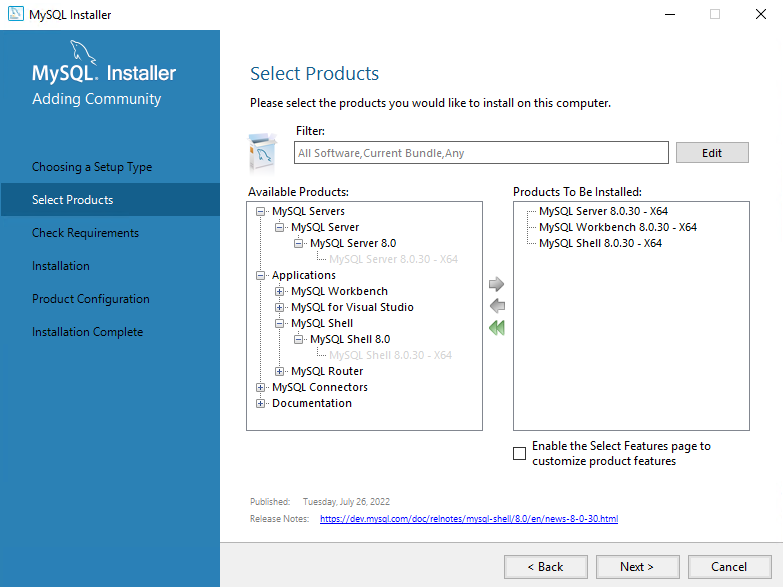
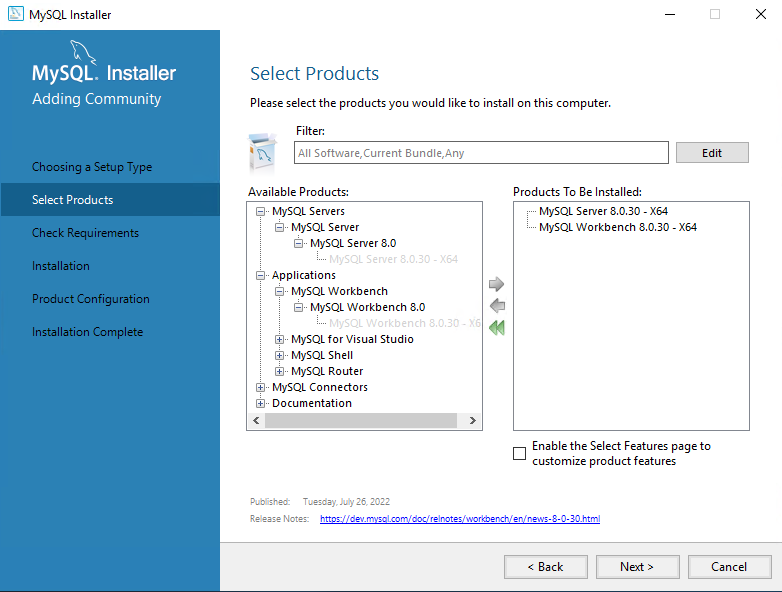
MySQL Data In Lab review 1

diff --git a/Azure Database for MySQL Single Server/06 Set Data-In replication for MySQL from on premise into Azure Database for MySQL/readme.md b/Azure Database for MySQL Single Server/06 Set Data-In replication for MySQL from on premise into Azure Database for MySQL/readme.md
@@ -46,7 +46,6 @@ In this exercise, MySQL will be installed in an Azure VM to be used as primary s
    - **Security type**: Standard
    - **Image**: Windows Server 2019 Datacenter
    - **Size**: Any tier with at least 2vCores and 8GB memory is ok
-   - **Authentication type**: Password
    - **Username**: vmadmin
    - **Password**: Set a strong password
    - **Public inbound ports**: Allow selected ports
@@ -67,13 +66,13 @@ In this exercise, MySQL will be installed in an Azure VM to be used as primary s
 
 1. Identify private and public IP addresses for the VM
 
-   Take note of the private and public IP addresses of the VM as we will be using them at later section.
+   Take note of the public IP addresses of the VM as we will be using them at later section.
 
    ![Image0003](Media/image0003.png)
 
 1. Connect to the *MySQLVM* virtual machine
 
-   Open Remote Desktop Application and connect to the *MySQLVM* virtual machine using using the Public IP Address of the VM and the *vmadmni* user
+   Open Remote Desktop Application and connect to the *MySQLVM* virtual machine using using the Public IP Address of the VM and the *vmadmin* user
 
    ![Image0004](Media/image0004.png)
 
@@ -92,25 +91,24 @@ In this exercise, MySQL will be installed in an Azure VM to be used as primary s
 
    >This installation is a simple configuration for lab purposes so not all the security best practices are follows in interest of time and becuase it is out of the scope of this lab.
 
-   In the MySQL VM, open Internet Explorer and 
-   Method 1: Disable software with invalid signature to run in Internet Explorer
+   In the MySQL VM, open Internet Explorer and disable software with invalid signature to run in Internet Explorer
+   - Open Internet Explorer browser from Desktop.
+   - From the menu bar select Tools Select Internet Options.
+   - In the Internet Options window, select Advanced tab.
+   - Scroll down and un-check the Allow software to run or install even if the signature is invalid
+   - Click OK to save the settings. Then close the Internet Options window.
 
- a)      Open Internet Explorer browser from Desktop.
-
-b)      From the menu bar select Tools Select Internet Options.
-
-c)      In the Internet Options window, select Advanced tab.
-
-d)      Scroll down and un-check the Allow software to run or install even if the signature is invalid
-
-e)      Click OK to save the settings. Then close the Internet Options window.
-
-
-   go to https://dev.mysql.com/downloads/windows/installer/8.0.html
+   Restart Internet Explorer and go to https://dev.mysql.com/downloads/windows/installer/8.0.html
    
    ![Image0007](Media/image0007.png)
 
+   Select the mysql-installer-community msi option.
+
    ![Image0008](Media/image0008.png)
+
+![Image0040](Media/image0040.png)
+
+![Image0041](Media/image0041.png)
 
    Start the installer, 
 
@@ -119,23 +117,26 @@ e)      Click OK to save the settings. Then close the Internet Options window.
    Select:
    - MySQL Server
    - MySQL Workbench
-   - MySL Shell
 
    and click **Next**
 
    ![Image0009](Media/image0009.png)
 
-   follow with the installation. During server configuration set a strong password for the *root* user and create a ew user *admin* with the *DB ADmin* role
+   follow with the installation. During server configuration set a strong password for the *root* user and create a new user *admin* with the *DB ADmin* role
 
    ![Image0010](Media/image0010.png)
 
    Add the MySQL bin folder to Windows PATH using Powershell as an Administrator
 
+   ```bash
+   [Environment]::SetEnvironmentVariable("PATH", $Env:PATH + ";C:\Program Files\MySQL\MySQL Server 8.0\bin", [EnvironmentVariableTarget]::Machine)
+   ```
+
    ![Image0011](Media/image0011.png)
       
 1. Create the *sakila* sample database
 
-   Download https://downloads.mysql.com/docs/sakila-db.zip and extract the content in *C:\\\temp* 
+   Using Internet Explorer, download https://downloads.mysql.com/docs/sakila-db.zip and extract the content in *C:\\\temp* 
 
    Open a Windows Command Prompt and and connect to the local instance
 
@@ -147,42 +148,42 @@ e)      Click OK to save the settings. Then close the Internet Options window.
 
    >Type the commands, do not copy/paste
       
-   ```sql
-   SOURCE C:\\temp\\sakila-db\sakila-schema.sql
-   SOURCE C:\\temp\\sakila-db\\sakila-data.sql;
+   ```text
+   SOURCE C:\temp\sakila-db\sakila-schema.sql
+   SOURCE C:\temp\sakila-db\sakila-data.sql;
    ```
 
    Exit MySQL
 
    ```
-   \\q
+   \q
    ```
 
 1. Open port 3306 in the VM
 
    >The default port for MySQL is 3306
 
-   In Azure portal, go to the VM PgBouncerVM
+   In Azure portal, go to the MySQL VM 
 
-   Go to **Networking** under **Settings**. Click **Add inbound port rule**
-![Image0010](Media/image0010.png)
+   Go to **Networking** under **Settings**.
+   
+   ![Image0040](Media/image0040.png)
+
+   For all the ecurity groups associated, click **Add inbound port rule**
 
    Configure the rule using the following information:
-   - **Destination port ranges**: 6432
-   - **Name**: PgBouncer_Port
+   - **Service**: MySQL
+   - **Name**: MySQL
    - Use default values for all other settings
  
-   ![Image0011](Media/image0011.png)
- 
+   ![Image0015](Media/image0015.png)
+    
    Click **Add**
  
    Wait until the rule is created. The final configuration should look like:
 
-  [Image0012](Media/image0012.png)
-
-   > When creating the inbound port rule, consider security implication and limit the possible sources for the connection. Ideally, the possible sources should be limited to valid clients that need to connect to Azure Database for PostgreSQL Single Server through the PgBouncer service in this VM. In this delivery you can use enable connections from any source but that is not recommended from security perspective.
-
-   
+   ![Image0012](Media/image0012.png)
+  
 Congratulations!. You have successfully completed this exercise.
 
 ---
@@ -233,7 +234,7 @@ This exercise shows how to enable binary logging on the primary server and enabl
  
    To check the current configuration execute:
 
-    ```
+    ```sql
     SHOW VARIABLES LIKE 'lower_case_table_names';
     ```
 
@@ -272,7 +273,7 @@ This exercise shows how to dump primary server and restore in Azure Database for
       
 1. Connect to the *MySQLVM* virtual machine
 
-   Open Remote Desktop Application and connect to the *MySQLVM* virtual machine using using the Public IP Address of the VM and the *vmadmni* user
+   Open Remote Desktop Application and connect to the *MySQLVM* virtual machine using using the Public IP Address of the VM and the *vmadmin* user
 
 1. Set the primary server to read-only mode
     
@@ -304,7 +305,7 @@ This exercise shows how to dump primary server and restore in Azure Database for
    On the MySQLVM, open a Windows Prompt and dump the sakila database (or schema in MySQL terms):
    
    ```sql
-   mysqldump -u admin -B sakila --add-drop-database -p > c:\\temp\\sakila_backup.sql
+   mysqldump -u admin -B sakila --add-drop-database -p > c:\temp\sakila_backup.sql
    ```
   
    ![Image0066](Media/image0066.png)
@@ -323,25 +324,22 @@ This exercise shows how to dump primary server and restore in Azure Database for
    ![Image0067](Media/image0067.png)
 
 1. Make necessary changes to the **c:\temp\sakila_backup.sql** file
-    
-    Using MySQL Workbench, open the **c:\temp\sakila_backup.sql** file and comment lines 386 and 404. Save the File.
-    
-    >[!Note] To comment a line, add two hyphen and a space at the begging of the line
-    
-    DEFINER is not supported in Azure Database for MySQL Single Server as domuented at [Unsupported](https://docs.microsoft.com/en-us/azure/mysql/single-server/concepts-limits#unsupported-1)
 
-    Open the **c:\temp\sakila_backup.sql** file and replace
+   DEFINER is not supported in Azure Database for MySQL Single Server as domuented at [Unsupported](https://docs.microsoft.com/en-us/azure/mysql/single-server/concepts-limits#unsupported-1)
+
+   Using Notepad, open the **c:\temp\sakila_backup.sql** replace
     
-    ```
-    DEFINER=`admin`@`%`*/
-    ```
+   ```
+   DEFINER=`admin`@`%`
+   ```
 
-    with 
-    ```
-    DEFINER=CURRENT_USER
-    ```
+   with 
+   
+   ```
+   DEFINER=CURRENT_USER
+   ```
 
-![Image0068](Media/image0068.png)
+   ![Image0068](Media/image0068.png)
 
  1. Enable **log_bin_trust_function_creators** on your Azure Database for MySQL Single Server
 
@@ -368,11 +366,18 @@ This exercise shows how to dump primary server and restore in Azure Database for
    for example:
     
    ```bash
-   mysql -h mysqlserverdvvr.mysql.database.azure.com -u admmysql@mysqlserverdvvr -p < c:\\temp\\sakila_backup.sql
+   mysql -h mysqlserverdvvr.mysql.database.azure.com -u admmysql@mysqlserverdvvr -p < c:\temp\sakila_backup.sql
    ```
    
    ![Image0072](Media/image0072.png)
     
+   If you get error:
+   >ERROR 9000 (HY000): Client with IP address '20.25.18.177' is not allowed to connect to this MySQL server.
+
+   Add a firewall rule in the Azure Database for MySQL Single Server for the Public IP Address of the MySQL VM
+
+   ![Image0090](Media/image0090.png)
+
 Congratulations!. You have successfully completed this exercise.
 
 ---
@@ -414,7 +419,7 @@ This exercise shows how to link the primary and replica server to start Data-In 
     
     NOTE: Syncuser is the user you created on step 4 of exercise 2. The **master_log_file** and the **master_log_pos** are the values that you got at step 7 of exercise 1 at the end of exercise 1. 
         
-    ![Image0074](Media/image0074.png)![Image0074](Media/image0074.png)
+    ![Image0074](Media/image0074.png)
 
 1. Start replication
     
@@ -452,7 +457,7 @@ This exercise shows how to link the primary and replica server to start Data-In 
     
     ![Image0077](Media/image0077.png)
 
-    Now, connect to the MySQL server on the VM and insert a row for the department IT in the on-premise MySQL database by executing:
+    Now, connect to the MySQL server on the VM and insert a new row in the table *sakila.actor* source MySQL database by executing:
 
     ```SQL    
     INSERT INTO sakila.actor VALUES (500,'DANIEL','VALERO',current_timestamp());
@@ -460,7 +465,7 @@ This exercise shows how to link the primary and replica server to start Data-In 
 
     ![Image0078](Media/image0078.png)
     
-    Once again, query the sakila.department table on the Azure Database for MySQL server to see that the row has been replicated. Execute:
+    Once again, query the *sakila.actor* table on the Azure Database for MySQL server to see that the row has been replicated. Execute:
 
     ```SQL    
     SELECT * 
